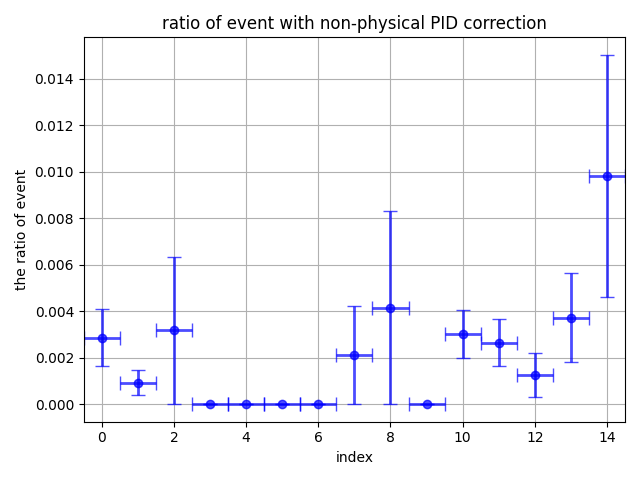
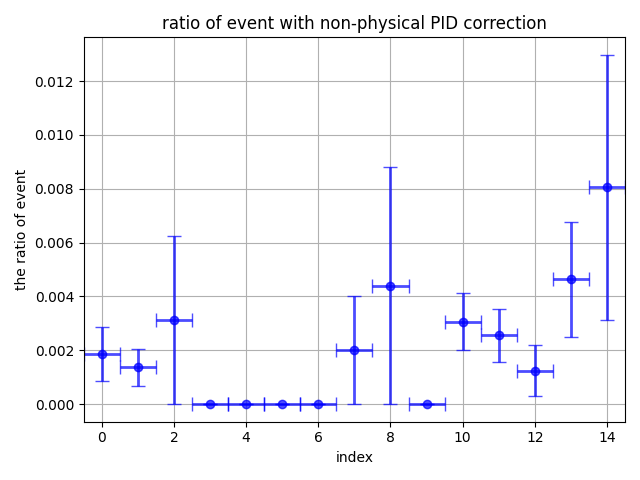
update

diff --git a/NEW/include/Fitter.h b/NEW/include/Fitter.h
@@ -385,10 +385,18 @@ void FixParameters(RooWorkspace* w, OPTIONS* options_) {
 
     // qqbar normalization
     if (options_->qqbar) {
-        w->var("alpha_qq_CAL_UUBAR_uncer")->setConstant(options_->qqbar);
-        w->var("alpha_qq_CAL_DDBAR_uncer")->setConstant(options_->qqbar);
-        w->var("alpha_qq_CAL_SSBAR_uncer")->setConstant(options_->qqbar);
-        w->var("alpha_qq_CAL_CHARM_uncer")->setConstant(options_->qqbar);
+        w->var("alpha_qq_CAL_UUBAR_uncer_MXs1")->setConstant(options_->qqbar);
+        w->var("alpha_qq_CAL_UUBAR_uncer_MXs2")->setConstant(options_->qqbar);
+        w->var("alpha_qq_CAL_UUBAR_uncer_MXs3")->setConstant(options_->qqbar);
+        w->var("alpha_qq_CAL_DDBAR_uncer_MXs1")->setConstant(options_->qqbar);
+        w->var("alpha_qq_CAL_DDBAR_uncer_MXs2")->setConstant(options_->qqbar);
+        w->var("alpha_qq_CAL_DDBAR_uncer_MXs3")->setConstant(options_->qqbar);
+        w->var("alpha_qq_CAL_SSBAR_uncer_MXs1")->setConstant(options_->qqbar);
+        w->var("alpha_qq_CAL_SSBAR_uncer_MXs2")->setConstant(options_->qqbar);
+        w->var("alpha_qq_CAL_SSBAR_uncer_MXs3")->setConstant(options_->qqbar);
+        w->var("alpha_qq_CAL_CHARM_uncer_MXs1")->setConstant(options_->qqbar);
+        w->var("alpha_qq_CAL_CHARM_uncer_MXs2")->setConstant(options_->qqbar);
+        w->var("alpha_qq_CAL_CHARM_uncer_MXs3")->setConstant(options_->qqbar);
     }
 
     // photon multiplicity correction

diff --git a/NEW/python/draw_non_physical_PID.py b/NEW/python/draw_non_physical_PID.py
@@ -4,8 +4,8 @@ import numpy as np
 # Data
 x = np.array([0, 1, 2, 3, 4, 5, 6, 7, 8, 9, 10, 11, 12, 13, 14])
 x_error = np.array([0.500000, 0.500000, 0.500000, 0.500000, 0.500000, 0.500000, 0.500000, 0.500000, 0.500000, 0.500000, 0.500000, 0.500000, 0.500000, 0.500000, 0.500000])
-y1 = np.array([0.002853, 0.000917, 0.003167, 0.000000, 0.000000, 0.000000, 0.000000, 0.002118, 0.004141, 0.000000, 0.003013, 0.002637, 0.001239, 0.003722, 0.009810])  # data
-y1_error = np.array([0.001223, 0.000532, 0.003172, 0.000000, 0.000000, 0.000000, 0.000000, 0.002121, 0.004146, 0.000000, 0.001031, 0.001015, 0.000949, 0.001929, 0.005214])
+y1 = np.array([0.001852, 0.001361, 0.003112, 0.000000, 0.000000, 0.000000, 0.000000, 0.002003, 0.004400, 0.000000, 0.003059, 0.002560, 0.001243, 0.004635, 0.008051])  # data
+y1_error = np.array([0.000995, 0.000694, 0.003116, 0.000000, 0.000000, 0.000000, 0.000000, 0.002005, 0.004406, 0.000000, 0.001052, 0.000979, 0.000953, 0.002140, 0.004927])
 
 # Define an offset for x-values
 offset = 0.0
